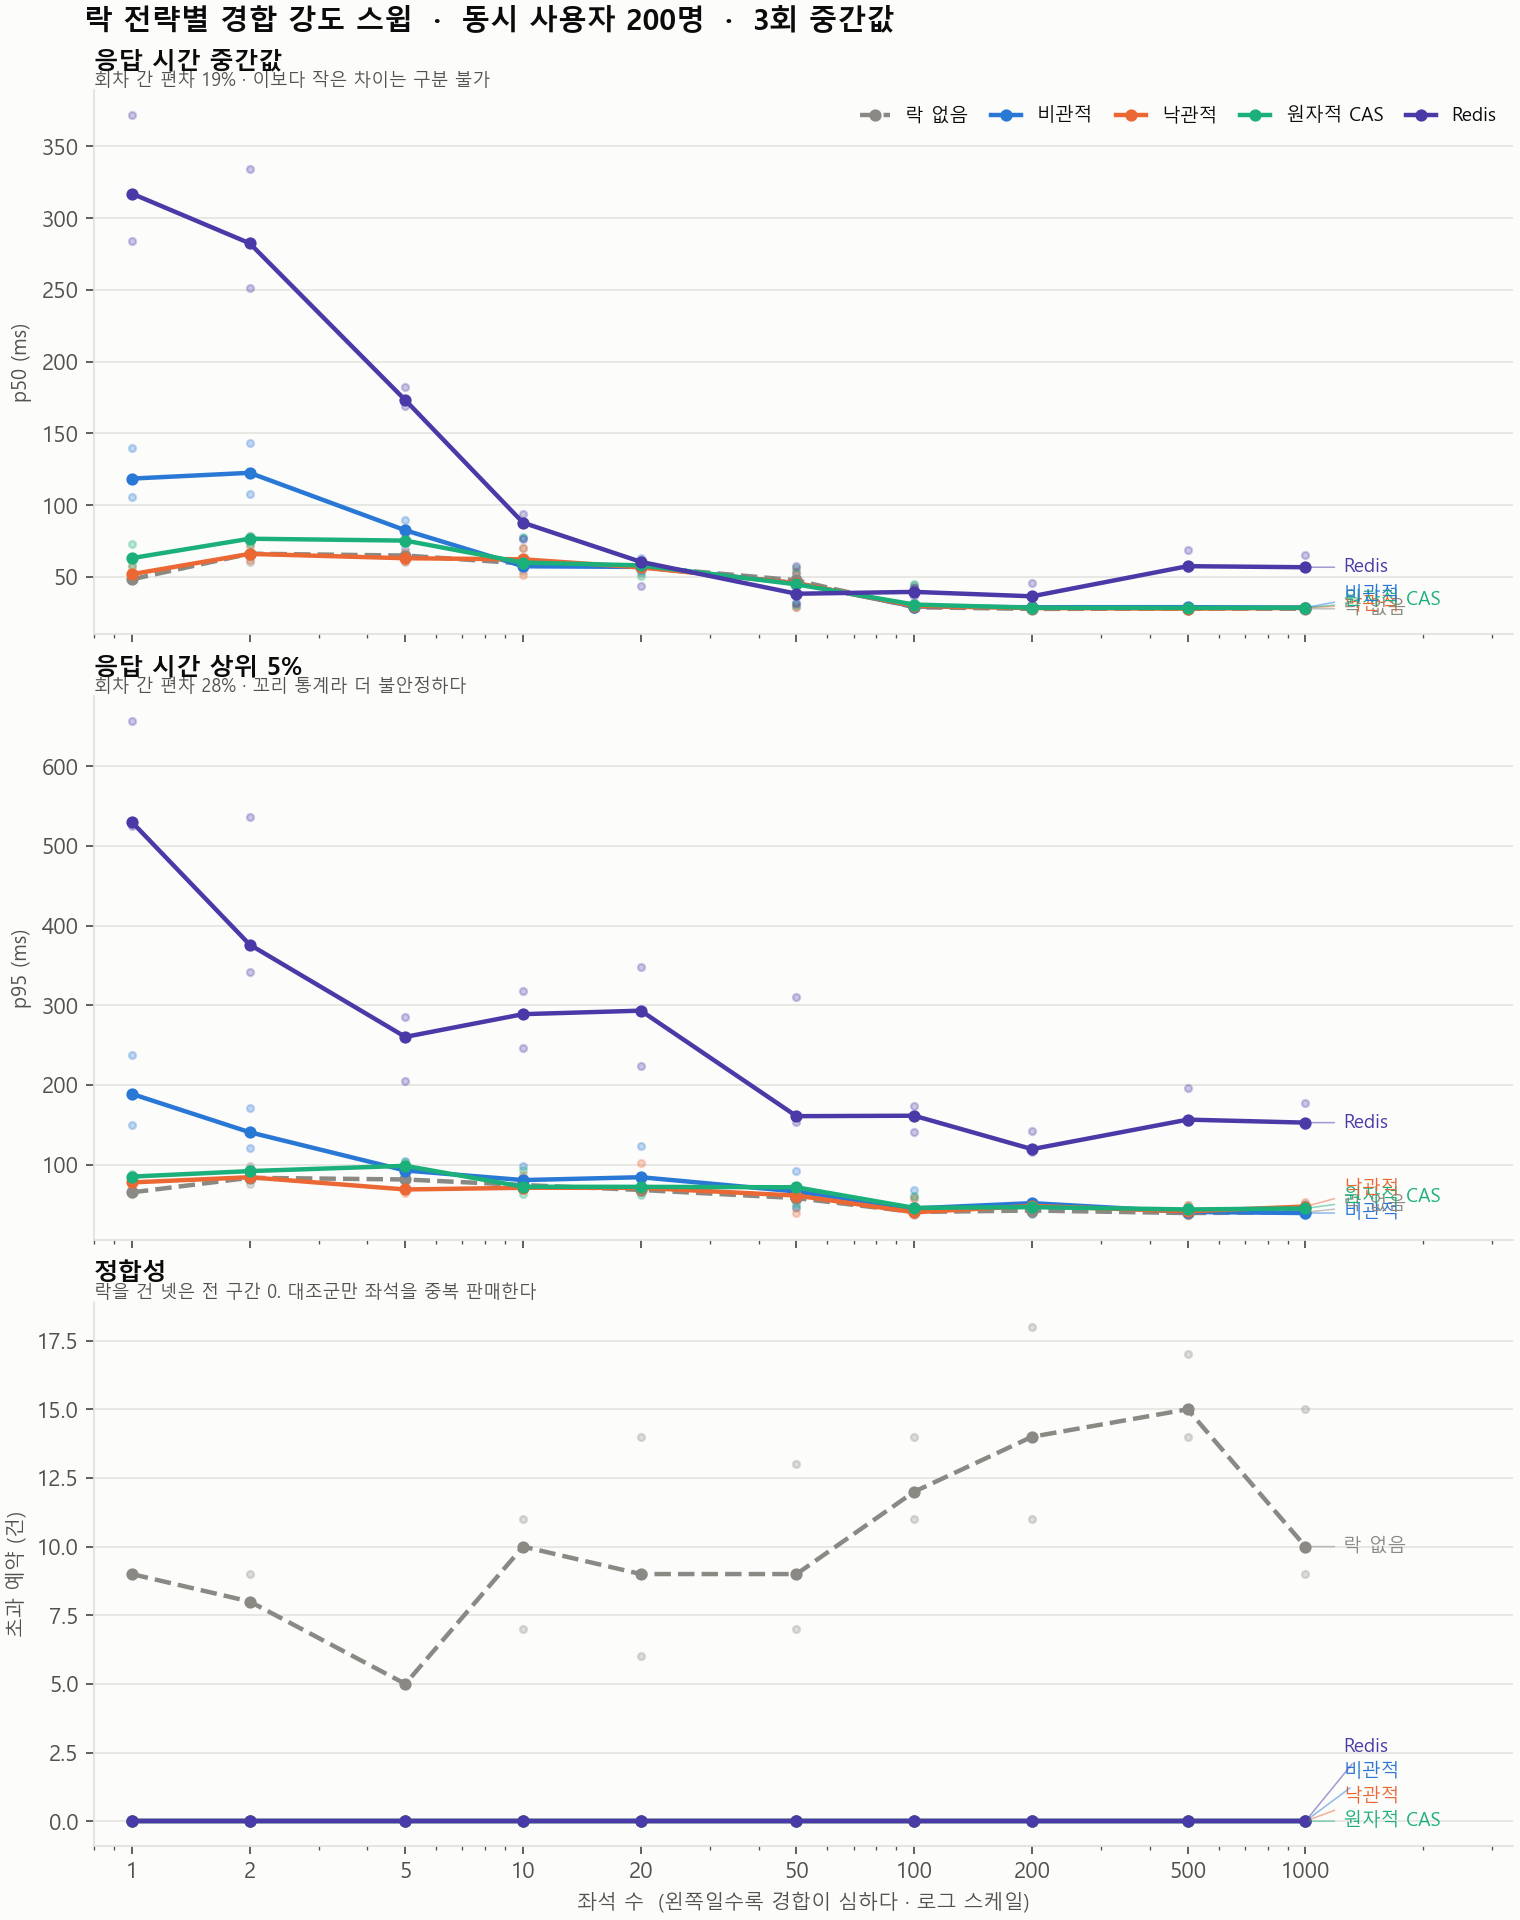
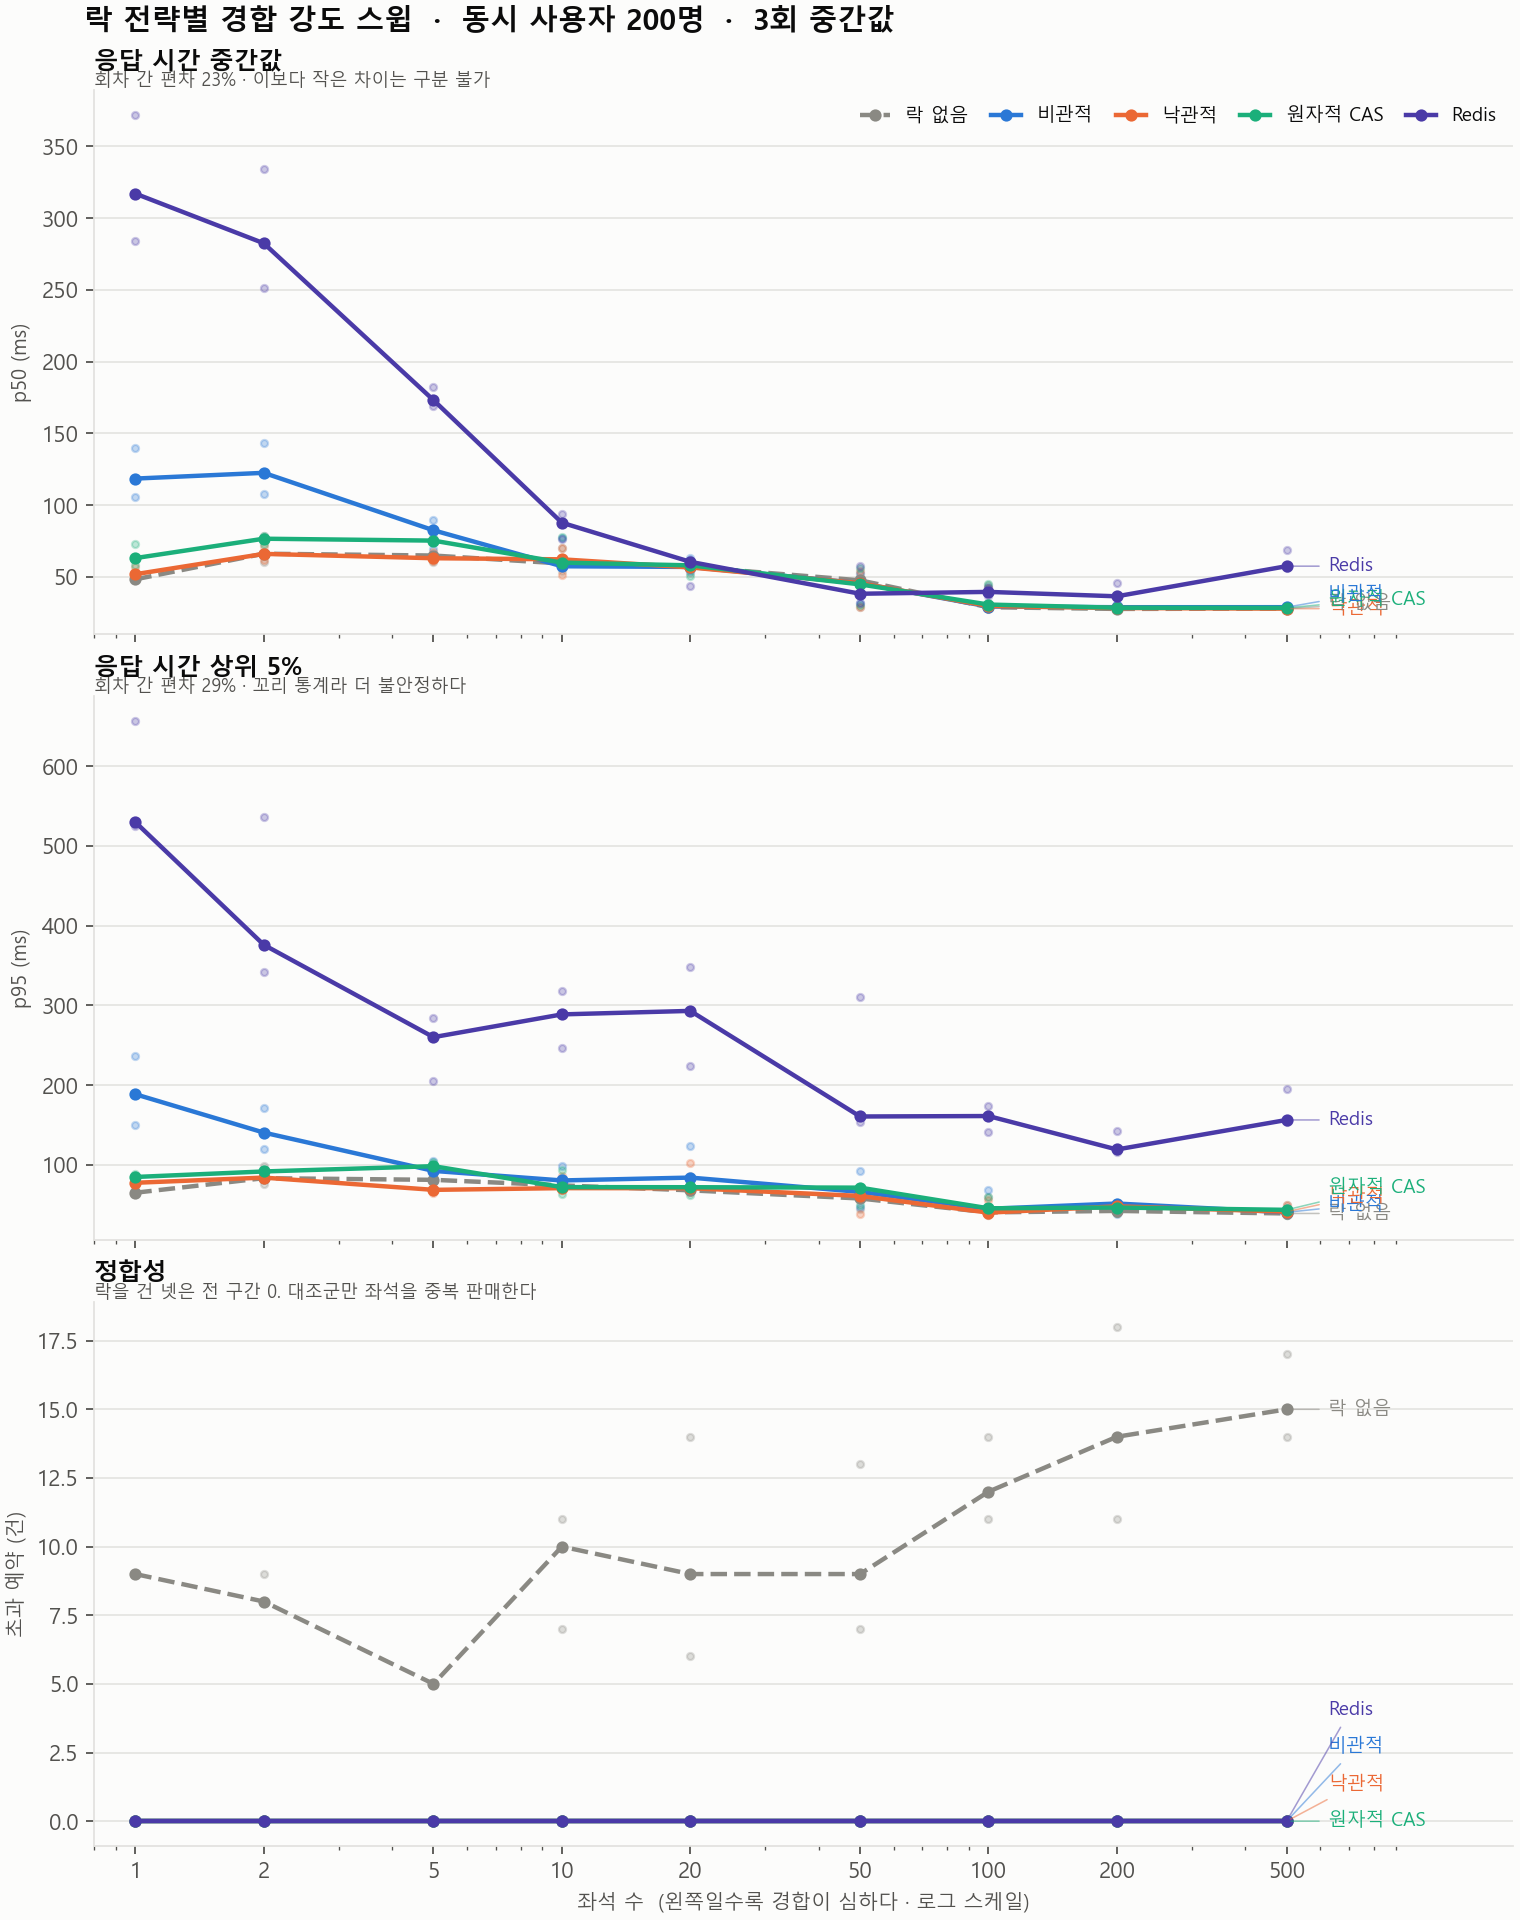
fix: 좌석 시드 수가 스윕 최대값보다 작았던 문제
Reset-Database 가 좌석을 500개만 만드는데 7·8단계를 SEAT_COUNT=1000 으로
돌렸다. reserve.js 는 있는 만큼만 집어가므로 실제로는 500 으로 돌았고,
로그와 CSV 에는 1000 이 남았다. 재지 않은 조건이 기록에 있었던 셈이다.

흔적: 좌석 500과 1000 의 측정값이 다섯 전략 전부에서 노이즈 안으로 겹친다.
같은 조건을 두 번 잰 것이다.

결론은 바뀌지 않는다. 7단계 교차점은 좌석 5~10 에 있어 위쪽 끝과 무관하고,
8단계는 모든 풀 크기가 같은 고정 조건이었다.

- 러너에 SeatPool 파라미터를 두고 기본값을 1200 으로 올렸다
- plot_strategies.py 에 --max-seats 를 두어 중복 조건을 그리지 않는다
- 7단계 그래프를 좌석 500 까지로 다시 그렸다

diff --git a/loadtest/plot_strategies.py b/loadtest/plot_strategies.py
@@ -117,6 +117,9 @@ def main() -> int:
     ap = argparse.ArgumentParser()
     ap.add_argument("--csv", default="loadtest/results/contention.csv")
     ap.add_argument("--out", default="loadtest/results/lock-strategies.png")
+    # 시더가 만든 좌석보다 큰 SEAT_COUNT 는 실제로는 시드 수만큼만 돌아간다.
+    # 그런 조건은 바로 아래 조건과 같은 측정이므로 중복이다.
+    ap.add_argument("--max-seats", type=int, default=None)
     args = ap.parse_args()
 
     path = Path(args.csv)
@@ -126,6 +129,8 @@ def main() -> int:
 
     df = pd.read_csv(path, encoding="utf-8-sig")
     df = df[df["run_id"] == df["run_id"].max()]
+    if args.max_seats:
+        df = df[df["value"] <= args.max_seats]
     runs = df[df["kind"] == "run"].copy()
     med = df[df["kind"] == "median"].copy()
     seats = sorted(med["value"].unique())
